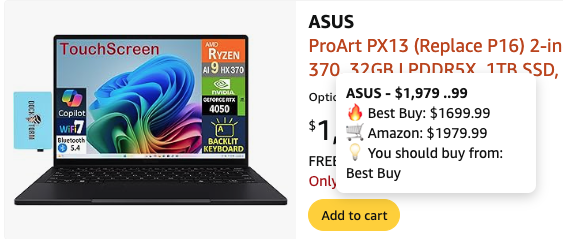
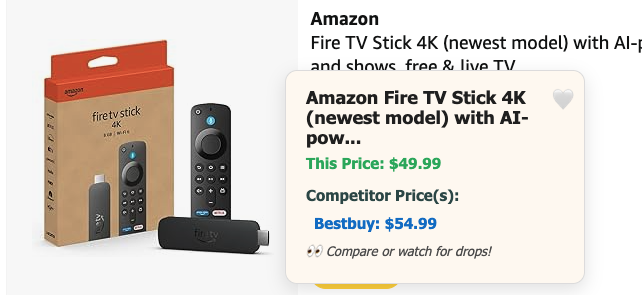
tightened up css and UI/UX

diff --git a/style.css b/style.css
@@ -5,22 +5,22 @@
 body.popup {
   margin: 0;
   padding: 0;
-  background-color: #FEF9F1;
+  background-color: #fcfbf9;
   box-sizing: border-box;
 }
 
-/* BUBBLE STYLING */
 #pricepal-bubble {
   position: absolute;
   z-index: 9999;
-  background-color: #ffffff;
+  background-color: #fcf0e8;
   padding: 16px 20px;
   border: 1px solid #e0e0e0;
   border-radius: 12px;
   box-shadow: 0 6px 18px rgba(0, 0, 0, 0.12);
   font-family: 'Segoe UI', Tahoma, Geneva, Verdana, sans-serif;
   font-size: 14px;
-  max-width: 340px;
+  max-width: 300px;
+  max-height: 300px;
   color: #333;
   overflow-wrap: break-word;
   white-space: normal;
@@ -35,16 +35,38 @@ body.popup {
 
 #pricepal-bubble .pricepal-title {
   font-weight: 600;
-  font-size: 15px;
+  font-size: 18px;
   color: #222;
   margin-bottom: 6px;
 }
 
 #pricepal-bubble .pricepal-price {
-  font-size: 18px;
-  font-weight: bold;
+  font-size: 15px;
+  font-weight: italic;
   color: #27ae60;
+  margin-top: 12px;
   margin-bottom: 12px;
+}
+
+#pricepal-bubble .pricepal-competitor {
+  font-size: 15px;
+  font-weight: bold;
+  color: darkslategray;
+  margin-bottom: 8px;
+}
+
+.pricepal-comps {
+  font-size: 15px;
+  font-weight: italic;
+  margin-bottom: 8px;
+}
+
+.pricepal-comps-bestbuy {
+  color: #0072ce;
+}
+
+.pricepal-comps-amazon {
+  color: #ff9900;
 }
 
 #pricepal-bubble .pricepal-tip {
@@ -57,20 +79,31 @@ body.popup {
 #pricepal-bubble .wishlist-btn {
   font-size: 20px;
   background: none;
-  border: none;
+  display: flex;       
+  /* border: none; */
   cursor: pointer;
   color: #888;
-  margin-top: 10px;
+  position: absolute;
+  top: 10px;
+  right: 10px;
+  z-index: 1001;
   padding: 4px 0;
   text-align: left;
   transition: color 0.2s ease;
+
+  width: 32px;
+  height: 32px;
+  display: flex;           
+  align-items: center;
+  justify-content: center;
+  border: 1px solid rgb(186, 186, 186);
+  border-radius: 50%;
 }
 
 #pricepal-bubble .wishlist-btn:hover {
   color: #e63946;
 }
 
-/* CHART STYLING */
 canvas#price-history-chart {
   margin-top: 12px;
   width: 100%;
@@ -78,12 +111,12 @@ canvas#price-history-chart {
   height: auto;
 }
 
-/* HEADER & LOGO */
 #header {
   display: flex;
   justify-content: center;
   align-items: center;
-  margin: 5px 0 10px 0;
+  margin-top: -40px;
+  /* margin: 5px 0 10px 0; */
 }
 
 #logo {
@@ -94,7 +127,17 @@ canvas#price-history-chart {
   display: block;
 }
 
-/* WISHLIST BOX */
+#intro {
+  margin-top: -25px;
+}
+
+#demo {
+  border: 1px solid rgb(186, 186, 186);
+  border-radius: 9px;
+  margin-top: 6px;
+  margin-bottom: -6px;
+}
+
 .wishlist-box {
   margin-top: 30px;
   padding: 15px;
@@ -108,7 +151,6 @@ canvas#price-history-chart {
   margin-bottom: 10px;
 }
 
-/* WISHLIST ITEMS */
 #wishlist-items {
   list-style: none;
   padding: 0;
@@ -142,7 +184,6 @@ canvas#price-history-chart {
   font-size: 12px;
 }
 
-/* DELETE BUTTON */
 .delete-btn {
   position: absolute;
   top: 10px;
@@ -158,3 +199,4 @@ canvas#price-history-chart {
 .delete-btn:hover {
   color: #d11a2a;
 }
+

diff --git a/content.js b/content.js
@@ -53,6 +53,12 @@ function truncateTitle(str, maxLength = 50) {
   return str.slice(0, maxLength) + "...";
 }
 
+// Capitalize first letter
+function capitalizeFirstLetter(site) {
+  const capitalFirstLetter = String(site).charAt(0).toUpperCase() + String(site).slice(1);
+  return capitalFirstLetter;
+}
+
 // Creates the bubble at the given (x, y)
 function showPriceBubble(title, price, x, y, competitorData) {
   // Remove old bubble
@@ -78,7 +84,7 @@ function showPriceBubble(title, price, x, y, competitorData) {
   const priceEl = document.createElement("div");
   priceEl.style.marginTop = "5px";
   priceEl.classList.add("pricepal-price");
-  priceEl.textContent = price ? `💵 Price: ${price}` : "Price: Not found";
+  priceEl.textContent = price ? `This Price: ${price}` : "Price: Not found";
   bubble.appendChild(priceEl);
 
   // Competitors
@@ -87,6 +93,7 @@ function showPriceBubble(title, price, x, y, competitorData) {
     if (comps && Object.keys(comps).length > 0) {
       const cTitle = document.createElement("div");
       cTitle.style.marginTop = "6px";
+      cTitle.classList.add('pricepal-competitor');
       cTitle.textContent = "Competitor Price(s):";
       bubble.appendChild(cTitle);
 
@@ -94,7 +101,11 @@ function showPriceBubble(title, price, x, y, competitorData) {
       for (const site of Object.keys(comps)) {
         const siteLine = document.createElement("div");
         siteLine.style.marginLeft = "8px";
-        siteLine.textContent = `${site.toUpperCase()}: ${comps[site] || "N/A"}`;
+      
+        const siteClass = `pricepal-comps-${site.toLowerCase()}`; // define the class name based on site
+        siteLine.classList.add('pricepal-comps', siteClass);
+      
+        siteLine.textContent = `${capitalizeFirstLetter(site)}: ${comps[site] || "N/A"}`;
         bubble.appendChild(siteLine);
       }
     }

diff --git a/pricepal.html b/pricepal.html
@@ -15,23 +15,25 @@
       <img src="pricepal_transparent.png" alt="PricePal Logo" id="logo" />
     </div>
     <p id="intro">
-      PricePal helps you compare prices across stores — online and in-store — so you always find the best deal.
+      <strong>Meet PricePal:</strong> your simple way to find the best deals across your favorite stores—online or in-person. Compare prices instantly, watch for drops, and save big!
     </p>
+    
+    <p id="instructions"><strong>Start Using PricePal in 3 Easy Steps</strong></p>
+    <ul class="steps">
+      <li><strong>Choose a Store:</strong> Shop any supported retailer—like Amazon or Best Buy.</li>
+      <li><strong>Hover for Insights:</strong> PricePal compares deals so you can spot the best offer at a glance.</li>
+      <li><strong>Add to Your Wishlist:</strong> Keep track of items you love and watch for price drops right in PricePal.</li>
+    </ul>
+
+
+
+    <div class="demoImg">
+      <img id="demo" src="demo.png" alt="Demo showing how to hover to compare prices" />
+    </div>
 
     <div class="wishlist-box">
       <h2>Your Wishlist</h2>
       <ul id="wishlist-items"></ul>
-    </div>
-
-    <p id="instructions"><strong>How to use:</strong></p>
-    <ul class="steps">
-      <li>Go to a supported store like Amazon or Best Buy</li>
-      <li>Search for a product you’re interested in</li>
-      <li>Hover over the product listing to view pricing and comparisons</li>
-    </ul>
-
-    <div class="demoImg">
-      <img id="demo" src="demo.png" alt="Demo showing how to hover to compare prices" />
     </div>
 
   </div>
